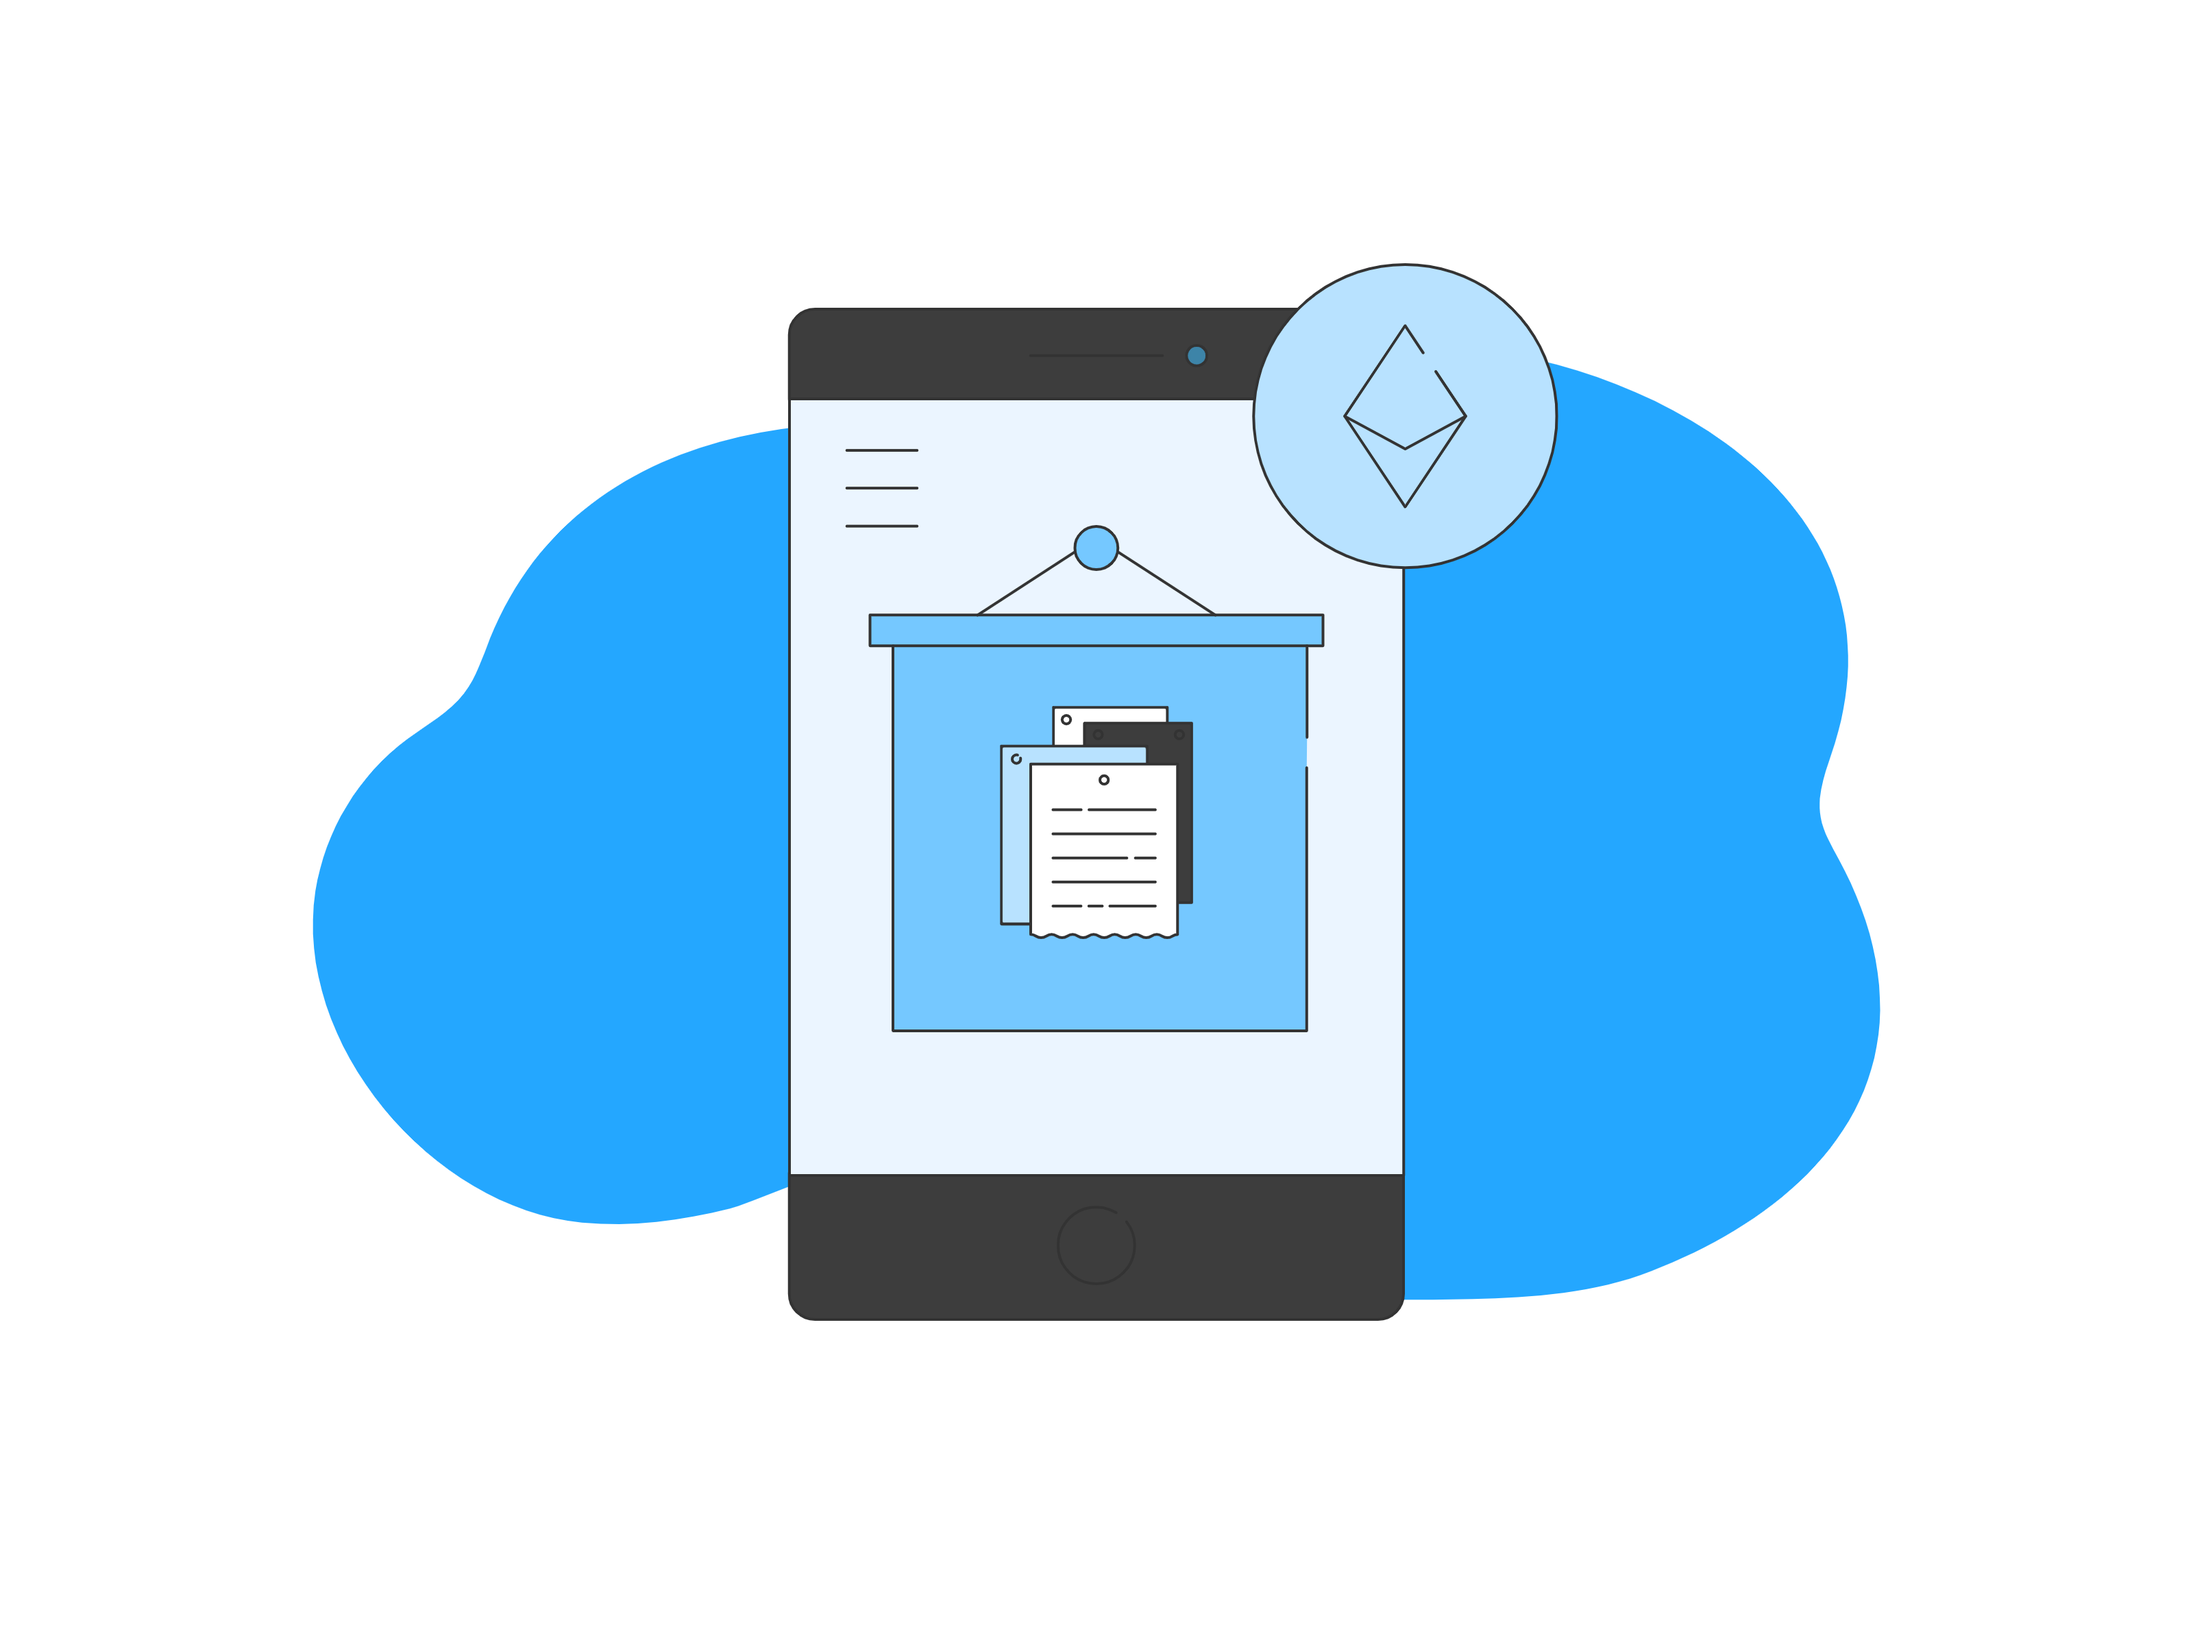
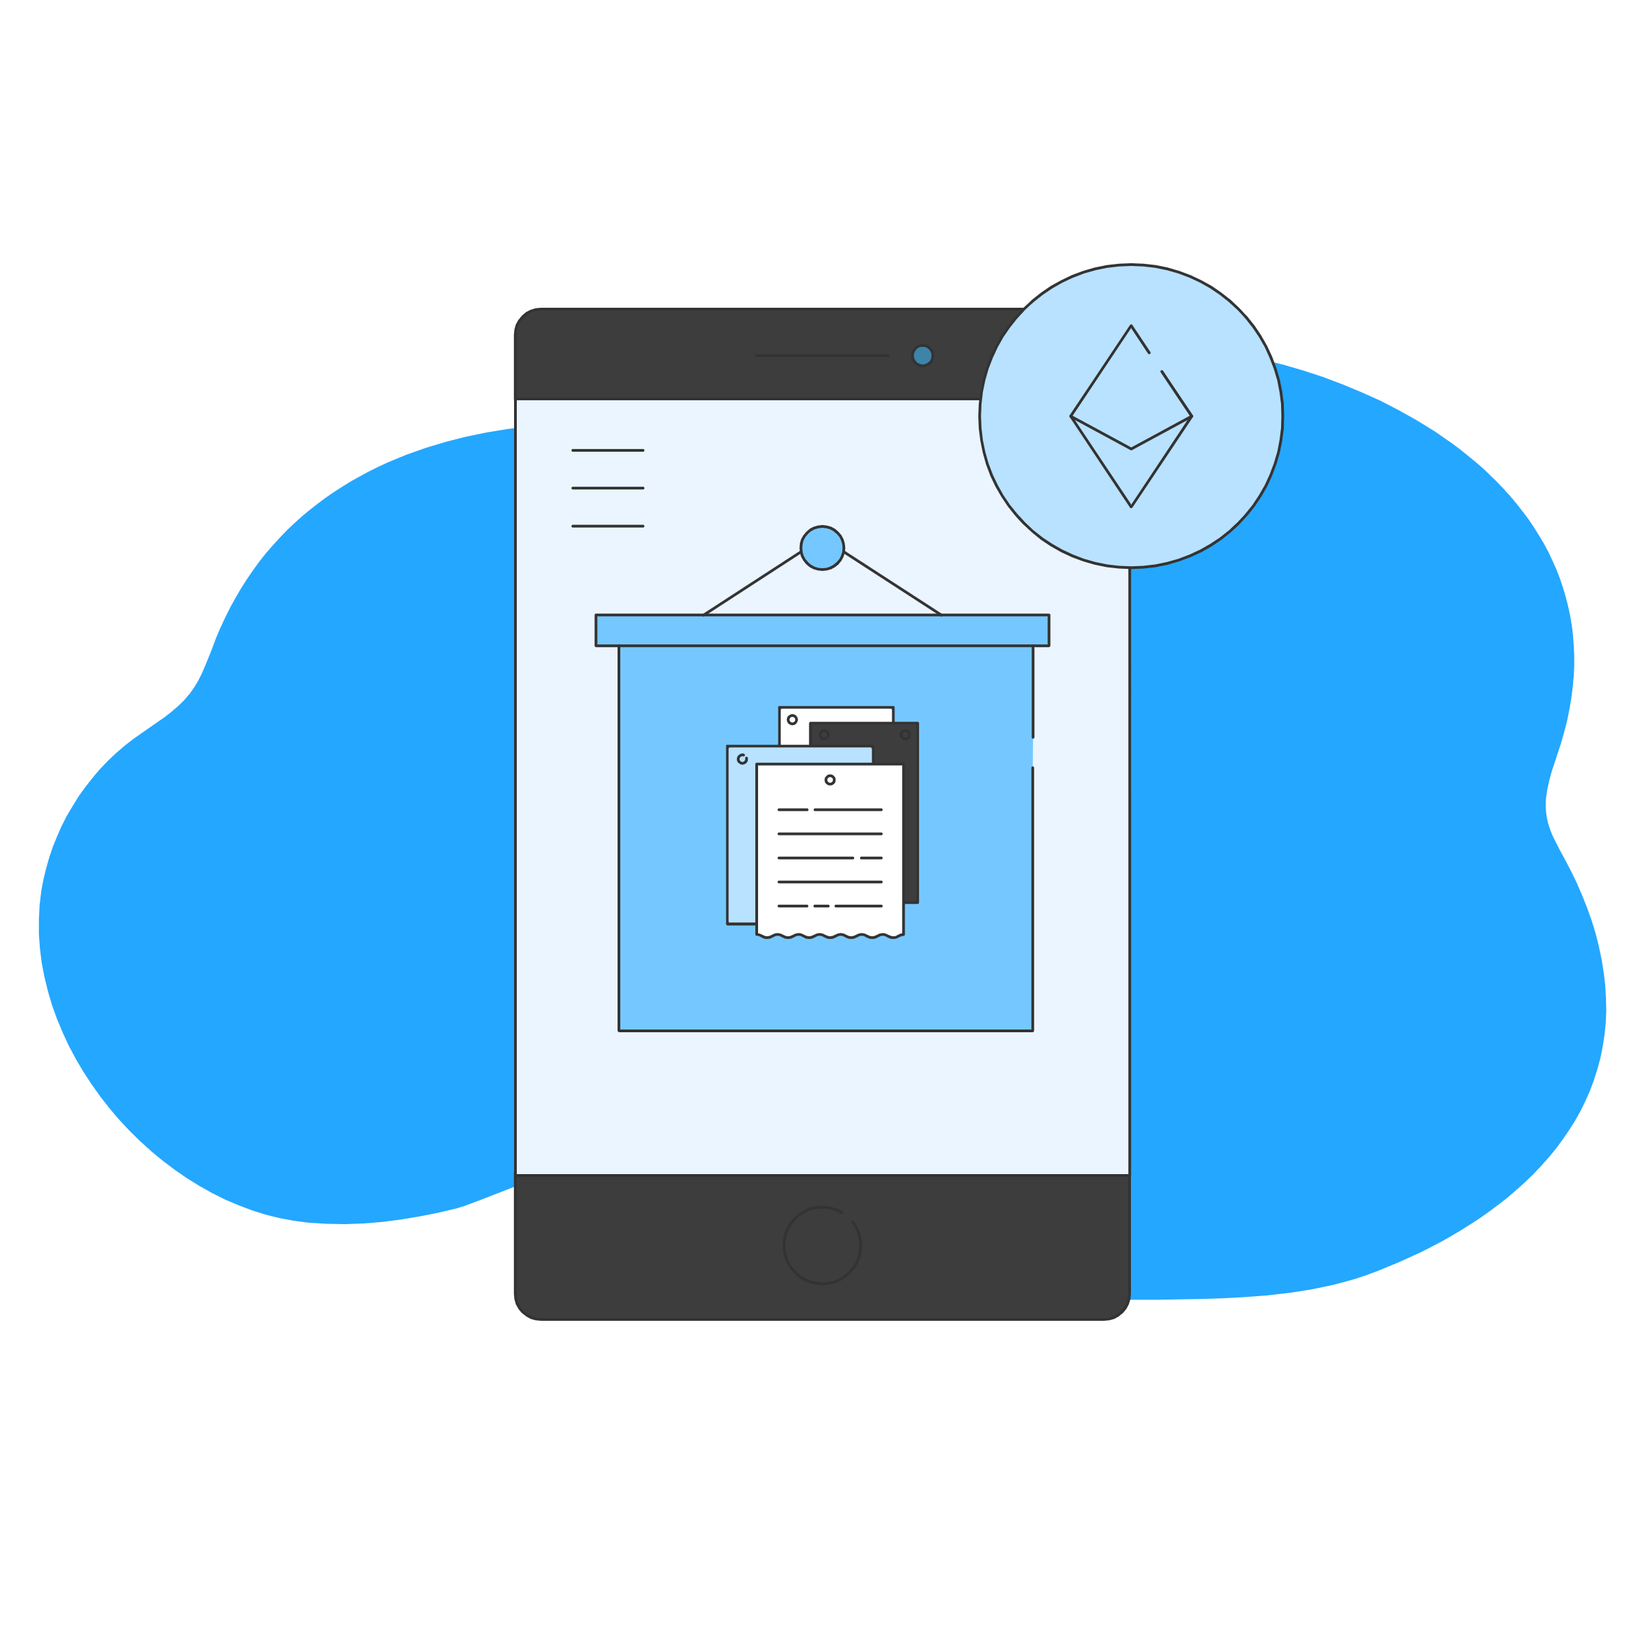
responsive edit 3

diff --git a/webapp/public/css/style.css b/webapp/public/css/style.css
@@ -422,7 +422,7 @@ section {
 }
 
 .home-img img {
-  width: 90rem;
+  width: 60rem;
   animation: floatImage 4s ease-in-out infinite;
   align-items: center;
 
